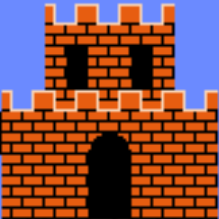
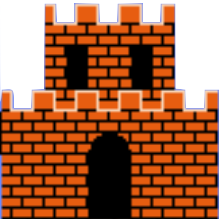
Added one more gap before the gap. removed background from the flag and castle image

Changed region(s): [[0.0, 0.0, 1.0, 0.4932]]

diff --git a/src/starter/Mario.java b/src/starter/Mario.java
@@ -27,6 +27,8 @@ public class Mario extends GraphicsProgram {
 	private GImage plat;
 	private GImage pipe;
 	private GRect gap = new GRect(2800, 600, 200, 200);
+	private GRect gap1 = new GRect(3800, 600, 200, 200);
+	private GRect gap2 = new GRect(8350, 600, 600, 200);
 	private GRect mortApple = new GRect(2000,550,100,100);
 //	String picture = "hello";
 //	private GImage imageIn = new GImage(picture,0,0);
@@ -93,9 +95,6 @@ public class Mario extends GraphicsProgram {
 		System.exit(0);
 	}
 	
-	
-
-
 
 	public void marioGraphics(){
 		GImage background = new GImage("bg.png", 0, 0);
@@ -139,6 +138,13 @@ public class Mario extends GraphicsProgram {
 		gap.setFillColor(Color.BLACK);
 		gap.setFilled(true);
 		
+		gap1.setColor(Color.BLACK);
+		gap1.setFillColor(Color.BLACK);
+		gap1.setFilled(true);
+		
+		gap2.setColor(Color.BLACK);
+		gap2.setFillColor(Color.BLACK);
+		gap2.setFilled(true);
 		//immortality apple graphics (not done)
 		mortApple.setColor(Color.RED);
 		mortApple.setFillColor(Color.red);
@@ -150,6 +156,8 @@ public class Mario extends GraphicsProgram {
 		add(level.castleImage);
 				
 		add(gap);
+		add(gap1);
+		add(gap2);
 		
 		add(mortApple);
 		marioFalls();
@@ -199,7 +207,7 @@ public class Mario extends GraphicsProgram {
 
 		collision(level.Ground);
 		////
-		if(Mario.getX()>=level.levelPlatform[0][49].getTop().getX())  {
+		if(Mario.getX()>=level.levelPlatform[0][51].getTop().getX())  {
 
 
 			moveMario(0,2);
@@ -233,6 +241,9 @@ public class Mario extends GraphicsProgram {
 							level.levelPlatform[a][i].movePlatform(-global.horizVelocity, 0);
 						}
 					}
+					gap.move(-global.horizVelocity, 0);
+					gap1.move(-global.horizVelocity, 0);
+					gap2.move(-global.horizVelocity, 0);
 					for(int i = 0; i < Platimg.size(); i++)
 					{
 						Platimg.get(i).move(-global.horizVelocity, 0);
@@ -528,7 +539,7 @@ public class Mario extends GraphicsProgram {
 			}
 		}
 
-		for(int i = 0; i < 49; i++)
+		for(int i = 0; i < 51; i++)
 		{
 			plat = new GImage("Plat1.png", level.levelPlatform[0][i].getGround().getX(), level.levelPlatform[0][i].getGround().getY());
 			plat.setSize(50, 50);

diff --git a/src/starter/Level.java b/src/starter/Level.java
@@ -37,15 +37,15 @@ public class Level extends GraphicsProgram{
 				flagImage = new GImage("flag.png",0,0);
 				flagImage.setImage("flag.png");
 				flagImage.setSize(25,80);
-				flagImage.setBounds(8570, 100, 50, 500);
+				flagImage.setBounds(9000, 100, 50, 500);
+				
 				castleImage = new GImage("castle.png",0,0);
-			
 				castleImage.setSize(30,30);
-				castleImage.setBounds(8725, 350, 250, 250);
+				castleImage.setBounds(9250, 350, 250, 250);
 
 
 
-		levelPlatform = new Platform[1][50];
+		levelPlatform = new Platform[1][55];
 		for (int a = 0; a < levelPlatform.length; a++)
 			for (int i = 0; i < levelPlatform[0].length; i++) {
 				levelPlatform[a][i] = new Platform();
@@ -120,6 +120,8 @@ public class Level extends GraphicsProgram{
 		levelPlatform[0][46].InitilizePlatform(8250,300,50,50,3);
 		levelPlatform[0][47].InitilizePlatform(8300,250,50,50,3);
 		levelPlatform[0][48].InitilizePlatform(8350,250,50,50,3);
+		levelPlatform[0][49].InitilizePlatform(8620,250,50,50,3);
+		levelPlatform[0][50].InitilizePlatform(8670,250,50,50,3);
 
 		
 		
@@ -144,7 +146,9 @@ public class Level extends GraphicsProgram{
 		
 		Ground[0].InitilizePlatform(0, 600,2800, 200, 3);
 		Ground[1].InitilizePlatform(3000, 600,800, 200, 3);
-		Ground[2].InitilizePlatform(4000, 600,7000, 200, 3);
+		Ground[2].InitilizePlatform(4000, 600,4350, 200, 3);
+		Ground[3].InitilizePlatform(8950, 600,1000, 200, 3);
+		
 
 		Pipe[0][0].InitilizePlatform(1000, 540, 60, 60, 3);
 		Pipe[0][1].InitilizePlatform(1400, 520, 60, 80, 3);
@@ -153,7 +157,7 @@ public class Level extends GraphicsProgram{
 		Pipe[0][4].InitilizePlatform(7100, 540, 60, 60, 3);
 		Pipe[0][5].InitilizePlatform(7900, 540, 60, 60, 3);
 
-		levelPlatform[0][49].InitilizePlatform(8550, 590,5, 5, 3);
+		levelPlatform[0][51].InitilizePlatform(8980, 590,5, 5, 3);
 	}
 
 
